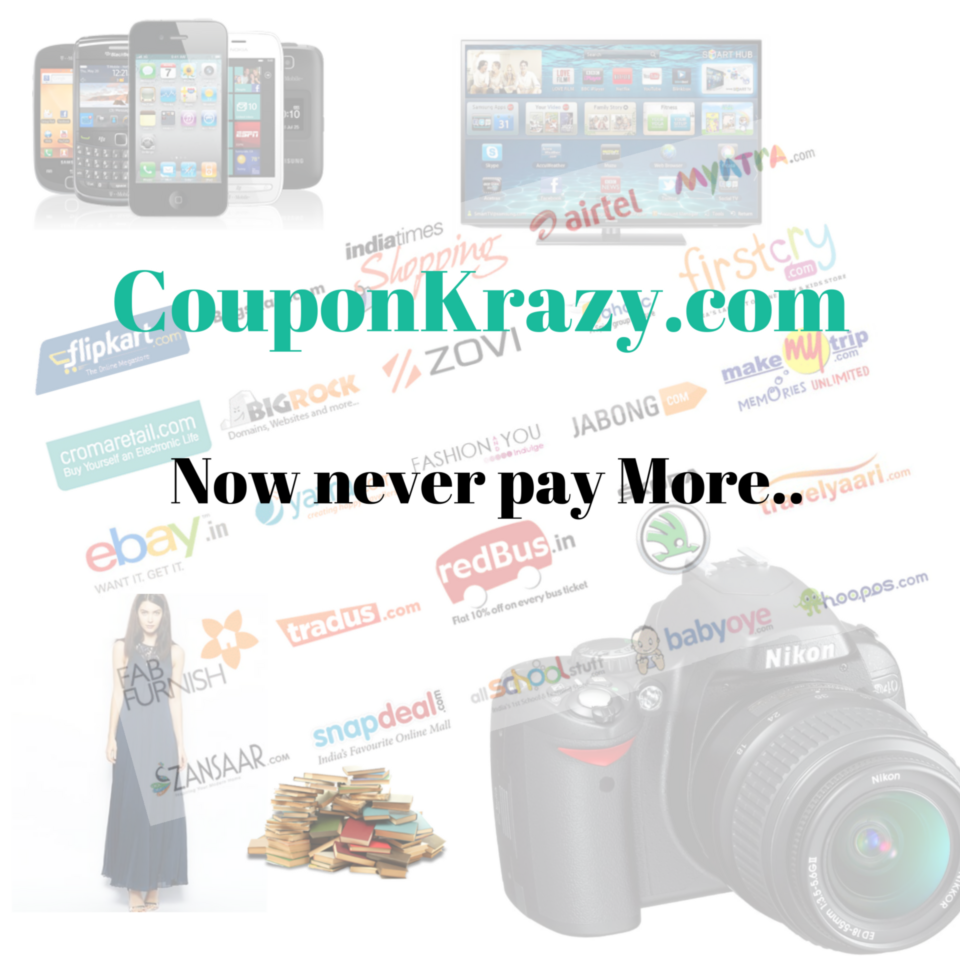
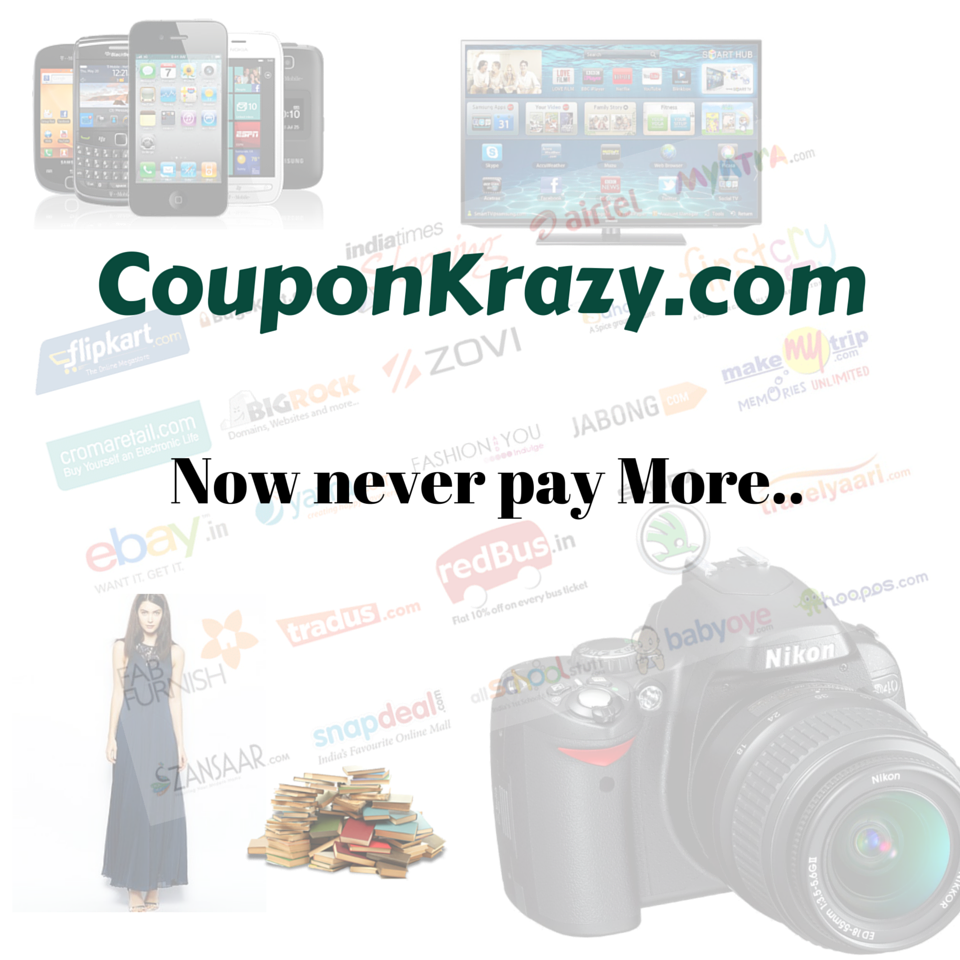
Changes made after first review

diff --git a/HTMLCSS/Project1/HTML/paytm.html b/HTMLCSS/Project1/HTML/paytm.html
@@ -62,6 +62,8 @@
 
         <div class="content-wrap">
 
+          <h2>Best Paytm Offers</h2>
+
           <div class="deals grid_12">
 
           <section class=" deal-row grid_12">
@@ -126,14 +128,18 @@
                 </div>
 
                 <div class="grid_8">
+                  <div class ="deal-content">
+                    <a href="">
+                      <h2>Diwali Sale:<br>UPTO 51% OFF ON HOME & KITCHEN</h2>
+                      <p> Get upto Rs. 10,000 cashback on home and kitchen appliances.
+                      Use the coupon code displayed on the product page to avail this offer</p>
 
-                  <h2>Diwali Sale:<br>UPTO 51% OFF ON HOME & KITCHEN</h2>
-                <p> Get upto Rs. 10,000 cashback on home and kitchen appliances.
-                  Use the coupon code displayed on the product page to avail this offer</p>
+                      <p>  </p>
 
-              <p>  </p>
+                    </a>
 
 
+                  </div>
                 </div>
 
             </div>
@@ -144,12 +150,19 @@
 
                 <div class="grid_8">
 
-                  <h2>Diwali Sale:<br>UPTO 50% OFF ON CLOTHING,FOOTWEAR & ACCESSORIES</h2>
-                <p> Get upto Rs. 50% cashback on biggest brands like PUMA,REEBOK & ADIDAS.
-                  Use the coupon code displayed on the product page to avail this offer</p>
+                  <div class ="deal-content">
+                 <a href="">
 
-              <p>  </p>
+                   <h2>Diwali Sale:<br>UPTO 50% OFF ON CLOTHING,FOOTWEAR & ACCESSORIES</h2>
+                   <p> Get upto Rs. 50% cashback on biggest brands like PUMA,REEBOK & ADIDAS.
+                   Use the coupon code displayed on the product page to avail this offer</p>
 
+                   <p>  </p>
+
+                 </a>
+
+
+            </div>
 
                 </div>
 
@@ -176,14 +189,20 @@
              <img class="subscribe-pic grid_2"src="../Images/subscribe-logo.png" alt="subscribe">
 
              <p class="subscribe-data grid_4">Sign-up for Free Coupons & Special Offers<br>
-                       Enter your Email ID. We promise to keep it to ourselves!</p>
+                       <span>Enter your Email ID. We promise to keep it to ourselves!</span></p>
 
-            <form id="subscribe-form" class=grid_6 action="">
 
-             <input type="text" name="user_email" value="Enter your email to get best offers!!!" />
-             <input type="button" name="subscribe" value="Subscribe Now">
+            <div class="grid_6">
 
-            </form>
+              <form id="subscribe-form" action="">
+
+               <input type="text" name="user_email" value="Enter your email to get best offers!!!" />
+               <input type="button" name="subscribe" value="Subscribe Now">
+
+              </form>
+
+            </div>
+
 
           </div>
       </section>

diff --git a/HTMLCSS/Project1/HTML/index.html b/HTMLCSS/Project1/HTML/index.html
@@ -2,7 +2,7 @@
 <html>
   <head>
     <meta charset="utf-8">
-    <title>My First Website</title>
+    <title>CouponKrazy</title>
 
     <link rel="stylesheet" href="../StyleSheets/reset.css" >
     <link rel="stylesheet" href="../StyleSheets/text.css" >
@@ -52,12 +52,14 @@
 
         <div class="container clearfix container_16">
 
+
           <div class="menu-title grid_2">
 
             Top
             <span>Stores</span>
 
           </div>
+
 
           <nav class="grid_14">
             <ul>
@@ -78,7 +80,7 @@
 
       <div class="hero container_12">
 
-      
+
 
       </div>
 
@@ -89,7 +91,7 @@
 
         <h2>Best Online Shopping Offers</h2>
 
-        <div class="deals grid_12">
+        <div class="deals container_12">
 
         <section class=" deal-row grid_12">
 
@@ -268,14 +270,20 @@
        <img class="subscribe-pic grid_2"src="../Images/subscribe-logo.png" alt="subscribe">
 
        <p class="subscribe-data grid_4">Sign-up for Free Coupons & Special Offers<br>
-                 Enter your Email ID. We promise to keep it to ourselves!</p>
+                 <span>Enter your Email ID. We promise to keep it to ourselves!</span></p>
 
-      <form id="subscribe-form" class=grid_6 action="">
 
-       <input type="text" name="user_email" value="Enter your email to get best offers!!!" />
-       <input type="button" name="subscribe" value="Subscribe Now">
+      <div class="grid_6">
 
-      </form>
+        <form id="subscribe-form" action="">
+
+         <input type="text" name="user_email" value="Enter your email to get best offers!!!" />
+         <input type="button" name="subscribe" value="Subscribe Now">
+
+        </form>
+
+      </div>
+
 
     </div>
 </section>

diff --git a/HTMLCSS/Project1/StyleSheets/style1.css b/HTMLCSS/Project1/StyleSheets/style1.css
@@ -89,25 +89,26 @@ header li{
 
 .content-wrap{
 
-  padding:80px 0;
+  padding-top:80px;
+  margin:0px !important;
 
 }
 
 .footer-wrap{
 
-  padding:80px 0px;
+  padding:20px 0px;
 
 
 }
 
 #page-menu-wrap{
-  background: #1ABC9C;
+  border:1px solid grey;
 }
 
 .menu-title{
 
     float: left;
-    color: #FFF;
+    color: black;
     font-size: 20px;
     font-weight: 300;
     padding-top: 25px;
@@ -119,12 +120,31 @@ header li{
 
 
 }
+.subscribe-data{
+
+text-align: center;
+
+}
+
+.subscribe-data span{
+
+   font-size:14px !important;
+
+}
+
 .subscribe{
 
-  margin:30px 0;
+  margin-top: 20px;
+  margin-bottom:10px;
   font-size: 20px;
   color: black;
   font-family: 'Fjalla One',sans-serif;
+
+}
+
+.paytm-deals .deal-content{
+
+  margin-top:30px;
 
 }
 input {
@@ -159,24 +179,31 @@ margin-bottom: 20px;
 }
 
 .deal-row .alpha{
-  margin-right: 5px;
+  margin-right: 20px;
 }
 
 .deal-row .gamma{
-  margin-left: 5px;
+  margin-left: 20px;
+}
+
+.subscribe form{
+
+  margin-left: 70px;
+}
+
+.paytm-deals .grid_8{
+
+  text-align: center;
 }
 
 
 
-.deals{
 
-  margin-bottom: 50px;
-
-}
 
 .deal-box{
 
-border: solid medium #1ABC9C;
+border: solid 1px grey;
+text-align:center;
 
 }
 
@@ -224,17 +251,17 @@ a:hover{
 
 #footer{
 
-  border:solid medium #1ABC9C;
-  color:#1ABC9C;
+  border:solid 1px grey;
+  color:#0a4a3c;
 }
 
 footer a{
 
-  color:#1ABC9C
+  color:#0a4a3c
 }
 
 .subscribe{
-  border:solid medium #1ABC9C;
+  border:solid 1px grey;
 }
 
 #logo{
@@ -244,7 +271,7 @@ footer a{
 
 }
 
-.alpha{
+/*.alpha{
   margin-left: 0;
   margin-right:0;
 }
@@ -253,7 +280,7 @@ footer a{
 
   margin-right:0;
   margin-left:0;
-}
+}*/
 
 .searchncart{
   padding:40px 0;
